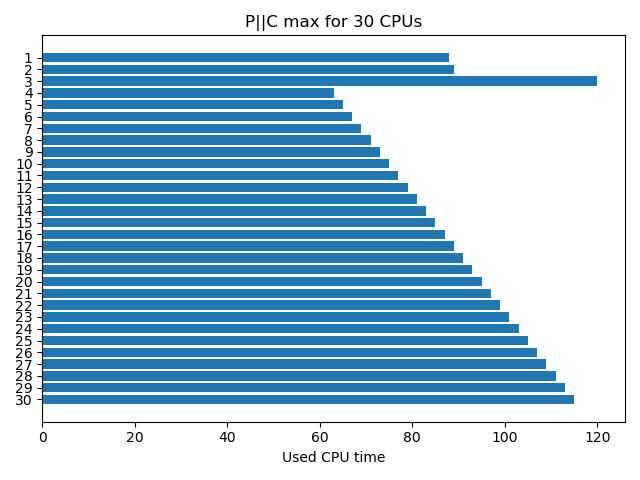
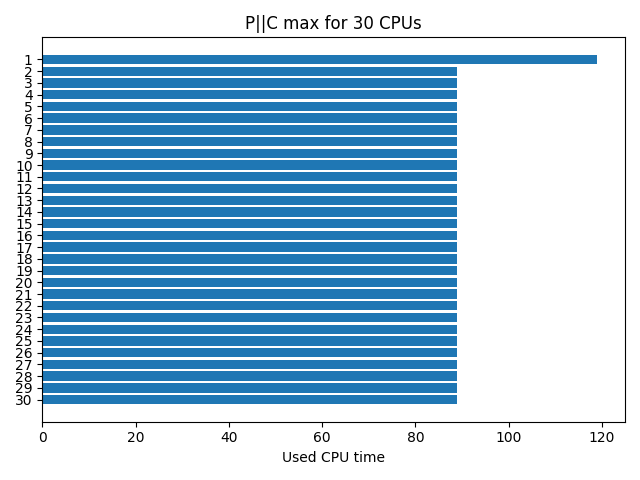
generator pre

diff --git a/main.py b/main.py
@@ -11,8 +11,10 @@ def setup():
         CPUCount, processes = process(f'./data/{format(sys.argv[1])}')
     else:
         request.urlretrieve(config['url'],
-                            config['path'])
-        CPUCount, processes = process('./data/PCMaxMachowiak.txt')
+                            config['dataDir']+config['defaultFilename'])
+        CPUCount, processes = process(
+            config['dataDir']+config['defaultFilename']
+        )
     CPUs = []
     for i in range(CPUCount):
         CPUs.append(CPU.CPU())
@@ -22,12 +24,14 @@ def setup():
 def main():
     CPUs, processes = setup()
     PCMax = algorithms.PCMax(CPUs, processes)
-    PCMax.list()
+    PCMax.lpt()
 
     for id, cpu in enumerate(CPUs):
         print('CPU nr. {} ends with {}'.format(id+1, cpu.getFreeAt()))
+
     print('Max value: {}'.format(
-        max(CPUs, key=lambda cpu: cpu.free_at).getFreeAt()))
+        max(CPUs, key=lambda cpu: cpu.free_at).getFreeAt())
+    )
     CPU.drawChart(CPUs)
 
 

diff --git a/generator.py b/generator.py
@@ -1,0 +1,31 @@
+import sys
+import configparser
+import random
+
+from helpers.file import process
+
+
+def main():
+    if len(sys.argv) >= 4:
+        processors = sys.argv[2]
+        process_count = int(sys.argv[3])
+        output = open(config['dataDir']+sys.argv[1], "w")
+        output.write(processors + "\n")
+        output.write(str(process_count) + "\n")
+        if len(sys.argv) == 6:
+            min_process_len = int(sys.argv[4])
+            max_process_len = int(sys.argv[5])
+        else:
+            min_process_len = int(config['minProcessLen'])
+            max_process_len = int(config['maxProcessLen'])
+        for i in range(process_count):
+            output.write(str(random.randint(
+                min_process_len, max_process_len)) + "\n")
+        output.close()
+
+
+if __name__ == '__main__':
+    config = configparser.ConfigParser()
+    config.read('config.ini')
+    config = config['GENERATOR']
+    main()

diff --git a/classes/algorithms.py b/classes/algorithms.py
@@ -8,3 +8,8 @@ class PCMax():
     def list(self):
         for proc in self.processes:
             min(self.CPUs, key=lambda cpu: cpu.getFreeAt()).assign(proc)
+
+    def lpt(self):
+        processes = sorted(self.processes, reverse=True)
+        for proc in processes:
+            min(self.CPUs, key=lambda cpu: cpu.getFreeAt()).assign(proc)

diff --git a/classes/CPU.py b/classes/CPU.py
@@ -19,6 +19,10 @@ class CPU():
     def getUsage(self, max_time):
         return (self.free_at / max_time) * 100
 
+    def clear(self):
+        self.proc = []
+        self.free_at = 0
+
 
 def drawChart(CPUs):
     times = [cpu.getFreeAt() for cpu in CPUs]

diff --git a/helpers/file.py b/helpers/file.py
@@ -5,4 +5,5 @@ def process(file_path):
     processes = []
     for i in range(processNum):
         processes.append(int(file.readline()))
+    file.close()
     return CPUCount, processes
